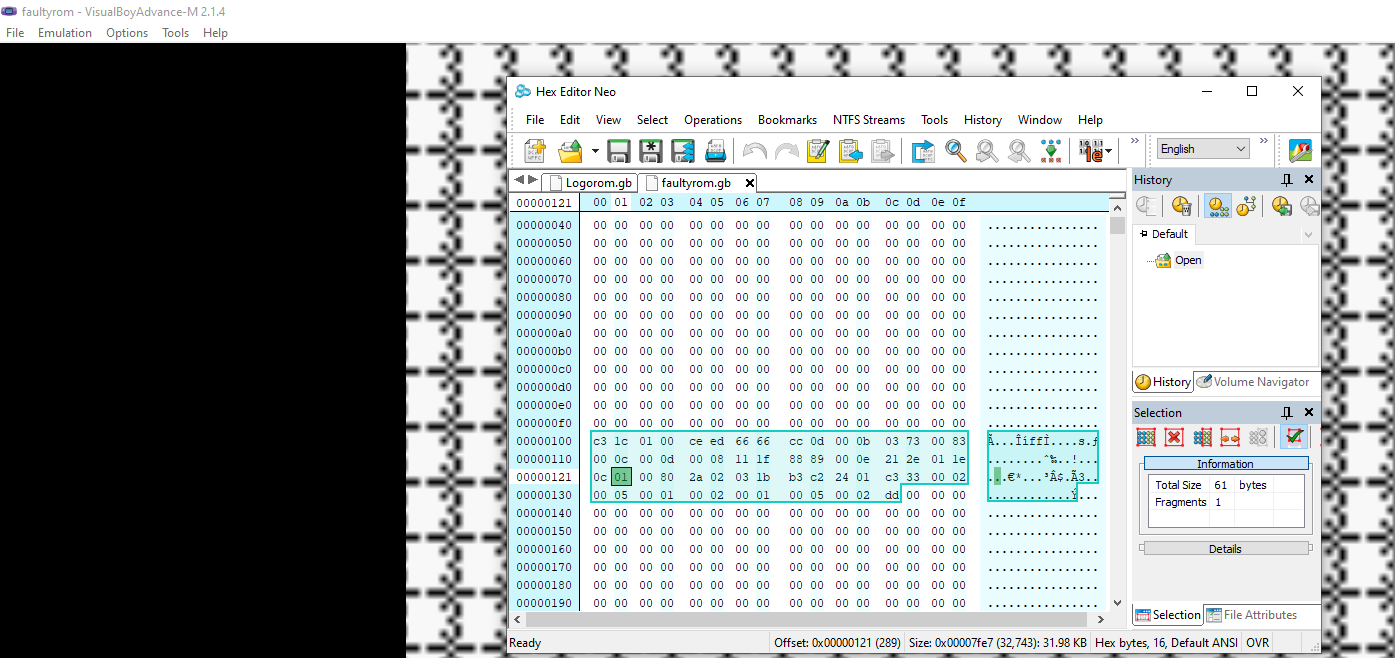
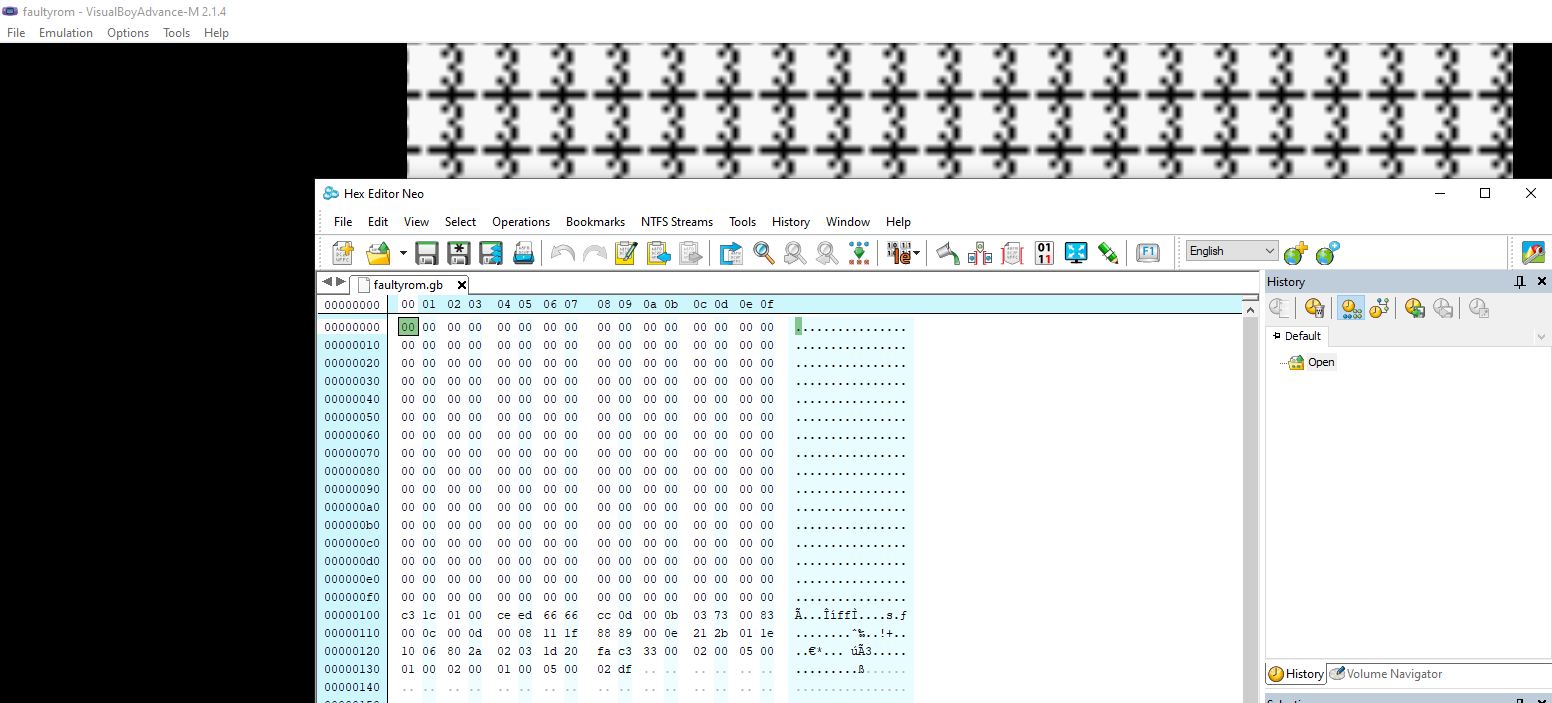
Updated Submission
Latest submission which uses relative jumps and some lower bytes to save 3 bytes

diff --git a/README.md b/README.md
@@ -5,7 +5,7 @@ When I saw the prompt for BGGP suggesting a crash includes I immediately asked a
 
 Great - on a technicality the "BIOS" of a gameboy is considered software. This does mean my score won't be amazing, since one of the highest scoring components is authoring and having a patch accepted. I don't think Nintendo are accepting updates to their 33 year old handheld.
 
-Some options however for a crash easily present itself, the Gameboy's BIOS is 256 bytes of code that perform 2 validation checks to ensure the cart/ROM is real. The first check is to ensure that the Nintendo logo is stored at 0x104-0x133. (This was an attempt at preventing illegal/unauthorised carts from being produced through legal means (as displaying the logo would infringe on Nintendo's copy right), but Sega tried this and lost the case against Accolade who produced cards on the Sega Genesis).
+Some options however for a crash easily present itself, the Gameboy's BIOS is 256 bytes (more in different versions) of code that perform 2 validation checks to ensure the cart/ROM is real. The first check is to ensure that the Nintendo logo is stored at 0x104-0x133. (This was an attempt at preventing illegal/unauthorised carts from being produced through legal means (as displaying the logo would infringe on Nintendo's copy right), but Sega tried this and lost the case against Accolade who produced cards on the Sega Genesis).
 
 The second check is to validate the title and details/hardware of the ROM using the following checksum: (https://gbdev.io/pandocs/The_Cartridge_Header.html#the-cartridge-header)
 ```
@@ -33,6 +33,8 @@ XXXX = f
 ```
 putting this together we get f1 1f (alignment space) 11 f0. Giving us a total rom size of 26 bytes which makes our score 4096-26+2048 = 6118 points. Discussions with the BGGP team suggest that since you can write this to any location on a physical ROM the points are scored from the first byte used to the last byte. In this case the header starts at the first byte even though the first control byte for a ROM is technically $100
 
+![](/CrashonLogoLoad.PNG)
+
 That gives us two our of 3 lots of bonus points, lets try for the third. Program counter with all 3s.
 Initially I thought that this would be impossible, given setting the program counter to 3333 is a valid memory space on a gameboy, albiet way out of the control of a BGGP exercise. Speaking again to the BGGP organisers, as long as we hit 3333 in our memory sequence we're okay, also any variable of 3 is supposed to count. In this case we could jump into 3333 after our code but this is banking on an inconsistent memory setting to crash (we will largely nopsled forever and eventually hit undef memory.) The alternative is jumping to 0x03 or 0x33, in this case I chose 0x33 since it's tighter and the nopsled just mentioned lets us get back to the first instruction creating an infinte loop. The area before the header is "supposed" to be where you setup handlers for interupts and reset instructions. Crucially, this isn't checked and you can do whatever you like with it if you aren't really using them (we definitely aren't). A neat visual representation of this is the Sonic 3D "Secret Level Select" (https://www.youtube.com/watch?v=ZZs2HUW9tDA).
 
@@ -58,45 +60,48 @@ LogoBottomHalf:
 
 So in the bottom half of the logo we can set everything to:
 ```
-21 2e 01 1e 0c 01 00 80 2a 02 03 1b 7a b3 c2 24 01 c3 33 00
+21 2b 01 1e 10 06 80 2a 02 03 1d 20 fa c3 33 00
 ```
-and still have 3 bytes left over.
+and still have 8 bytes left over.
 
-Since we still have to have a 3 to draw we have to place that in memory, this time we'll use the 3 left over bytes, overlap the starting byte with the 00 from the previous piece of code and stick the rest into the checksum section of the cartridge header: 
+Since we still have to have a 8 to draw we have to place that in memory, this time we'll use the 8 left over bytes, overlap the starting byte with the 00 from the previous piece of code and stick the rest into the checksum section of the cartridge header: 
 ```
 00 02 00 05 00 01 00 02 00 01 00 05 00 02
 ```
 
-Finally in order to get this code to execute, we have to have a valid checksum. Using the calculation from before we subtract 02, 01, 05 from e7 (0-(4c-34) bytes checked) That gives us dd which we can slot in right after the 00 02. This value will then be subtracted from the checksum, giving us 0 and letting us have no additional bytes but has the unfortunate side affect of underlining our 3 when drawn, trying to remove it from the calculation destroys the graphic so we just have to live with it.
+Finally in order to get this code to execute, we have to have a valid checksum. Using the calculation from before we subtract 01, 05, 02 from e7 (0-(4c-34) bytes checked) That gives us df which we can slot in right after the final 00 02. This value will then be subtracted from the checksum, giving us 0 and letting us have no additional bytes but has the unfortunate side affect of underlining our 3 when drawn. I did try to only draw a select few bytes in multiple ways, but in order to cut down 2 extra bytes we have to do live with it to have a stable image, otherwise the loop is misaligned and it causes many headaches.
 
-This lets us get all of our code and image slotted into less than a full cart header on a gameboy color bios, netting us 61 bytes total written to a cart starting from 0x100 for the following:
+![](/ShearingMisalignment.PNG)
+
+This lets us get all of our code and image slotted into less than a full cart header on a gameboy color bios, netting us 58 bytes total written to a cart starting from 0x100 for the following:
 ```
 c3 1c 01 00 ce ed 66 66 cc 0d 00 0b 03 73 00 83
-00 0c 00 0d 00 08 11 1f 88 89 00 0e 21 2e 01 1e
-0c 01 00 80 2a 02 03 1b b3 c2 24 01 c3 33 00 02
-00 05 00 01 00 02 00 01 00 05 00 02 dd
+00 0c 00 0d 00 08 11 1f 88 89 00 0e 21 2b 01 1e
+10 06 80 2a 02 03 1d 20 fa c3 33 00 02 00 05 00
+01 00 02 00 01 00 05 00 02 df
 ```
 
-And leaving a final score of 4096-61+1024+1024+2048 = 8131.
+And leaving a final score of 4096-58+1024+1024+2048 = 8134.
 
 ![](/FinalRom.PNG)
 
-The final explanation of the full entry is:
+The explanation of the full entry is:
 
 1. ```c3 1c 01 00 ```= c3 is jmp and takes a 16 byte header, 00 is spare space before the logo if more code wanted to be used.
 2. ```ce ed 66 66 cc 0d 00 0b 03 73 00 83 00 0c 00 0d 00 08 11 1f 88 89 00 0e ```= Top half of Nintendo logo.
-3. ```21 30 01 ```= 21 opcode for LD HL,(value) in this case 0x0130, the starting location of our binary for the logo (litle endian) we can't shorten this to LD L,value because H has junk in it after boot
-4. ```11 0e ```= 11 opcode for LD DE,(value) in this case 0x0e for 15 bytes to copy so the checksum value doesn't mess with our graphic (setting size of graphic)
-5. ```01 00 80 ```= 01 opcode for LD BC,(value) in this case 0x8000 is the memory mapping for VRAM, the location for drawing graphics to screen.
+3. ```21 2b 01 ```= 21 opcode for LD HL,(value) in this case 0x012d, the starting location of our binary for the drawn 3 (litle endian)
+4. ```1e 0e ```= 11 opcode for LD E,(value) in this case 0x1 for 16 bytes to copy (setting size of graphic) (I tried changing this to remove the line but because of the junk in register C not doing so will cause tearing and misalignment)
+5. ```06 80 ```= 06 opcode for LD B,(value) in this case 0x80 is the memory mapping for VRAM, the location for drawing graphics to screen (This was LD BC before but by making this change and using a graphics size of 0x10 we can avoid tearing and handle the fact that C=0x13 on boot).
 6. ```2a ```= LD A,(HL+) puts the value of HL's pointer into A and increments HL for the next byte
 7. ```02 ```= LD (BC),A puts the value of A (our graphic byte) into the memory location of BC (VRAM)
 8. ```03 ```= INC BC moves the VRAM pointer to the next location so we aren't drawing on a single pixel.
-9. ```1b ```= DEC DE counts down the number of bytes to copy
-10. ```b3 ```= OR e checks if e is 0 as any number OR'd will be itself.
-11. ```c2 25 01 ```= JP NZ,a16 jumps to the location in memory if the Z flag is not set (from previous call) 0x0125 is the location of 2a
-12. ```c3 33 00 ```= JMP to 0x0033 to score our extra points for pointer control.
-13. ```00 02 00 05 00 01 00 02 00 01 00 05 00 02 ```= Hex representation of the graphic 3 (NB the first 00 overlaps with the previous code)
-14. ```dd ```= value to neutralize checksum and save extra space
+9. ```1d ```= DEC E counts down the number of bytes to copy
+10. ```20 fa ```= JR NZ,a8 jumps to the relative signed location in memory if the Z flag is not set (from previous call) fa is -5 which puts us back to 6. to continue the loop
+11. ```c3 33 00 ```= JMP to 0x0033 to score our extra points for pointer control. (to far for a relative jmp to hit 33 which would have saved an extra point)
+12. ```00 02 00 05 00 01 00 02 00 01 00 05 00 02 ```= Hex representation of the graphic 3 (NB the first 00 overlaps with the previous code)
+13. ```df ```= value to neutralize checksum and save extra space
+
+![](/ASMCode.PNG)
 
 References:
 * https://gbdev.io/pandocs/
